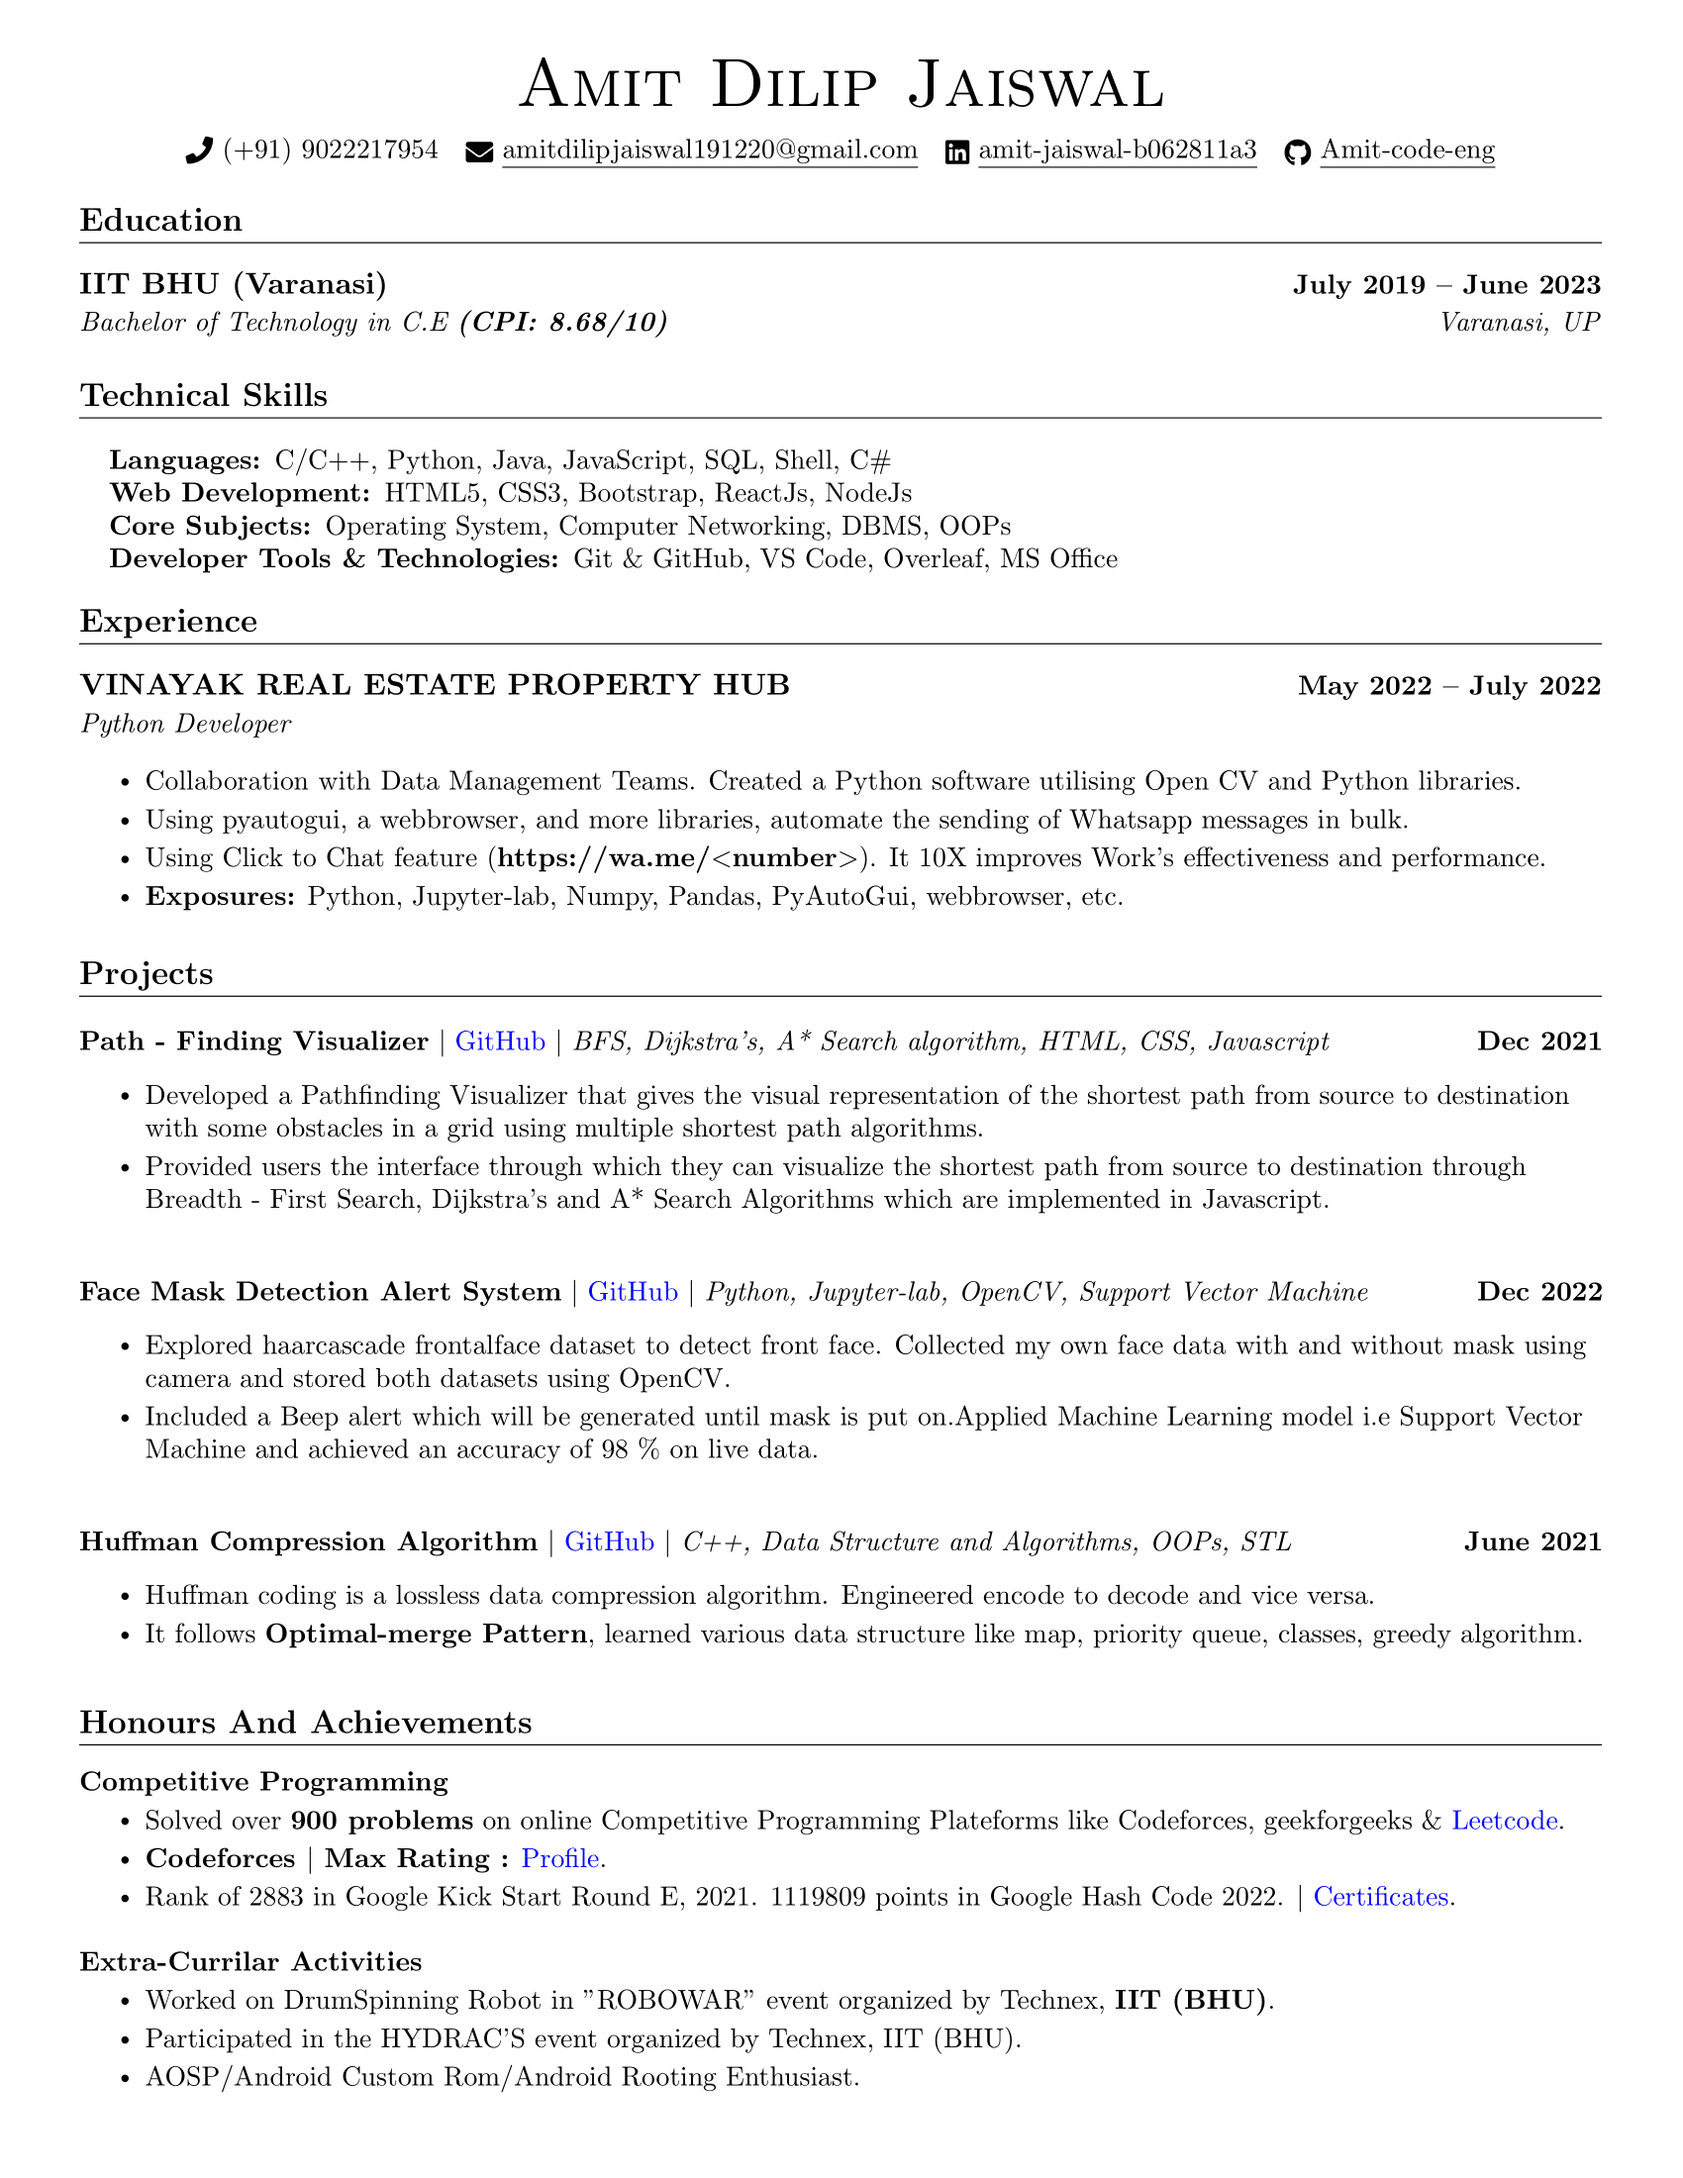
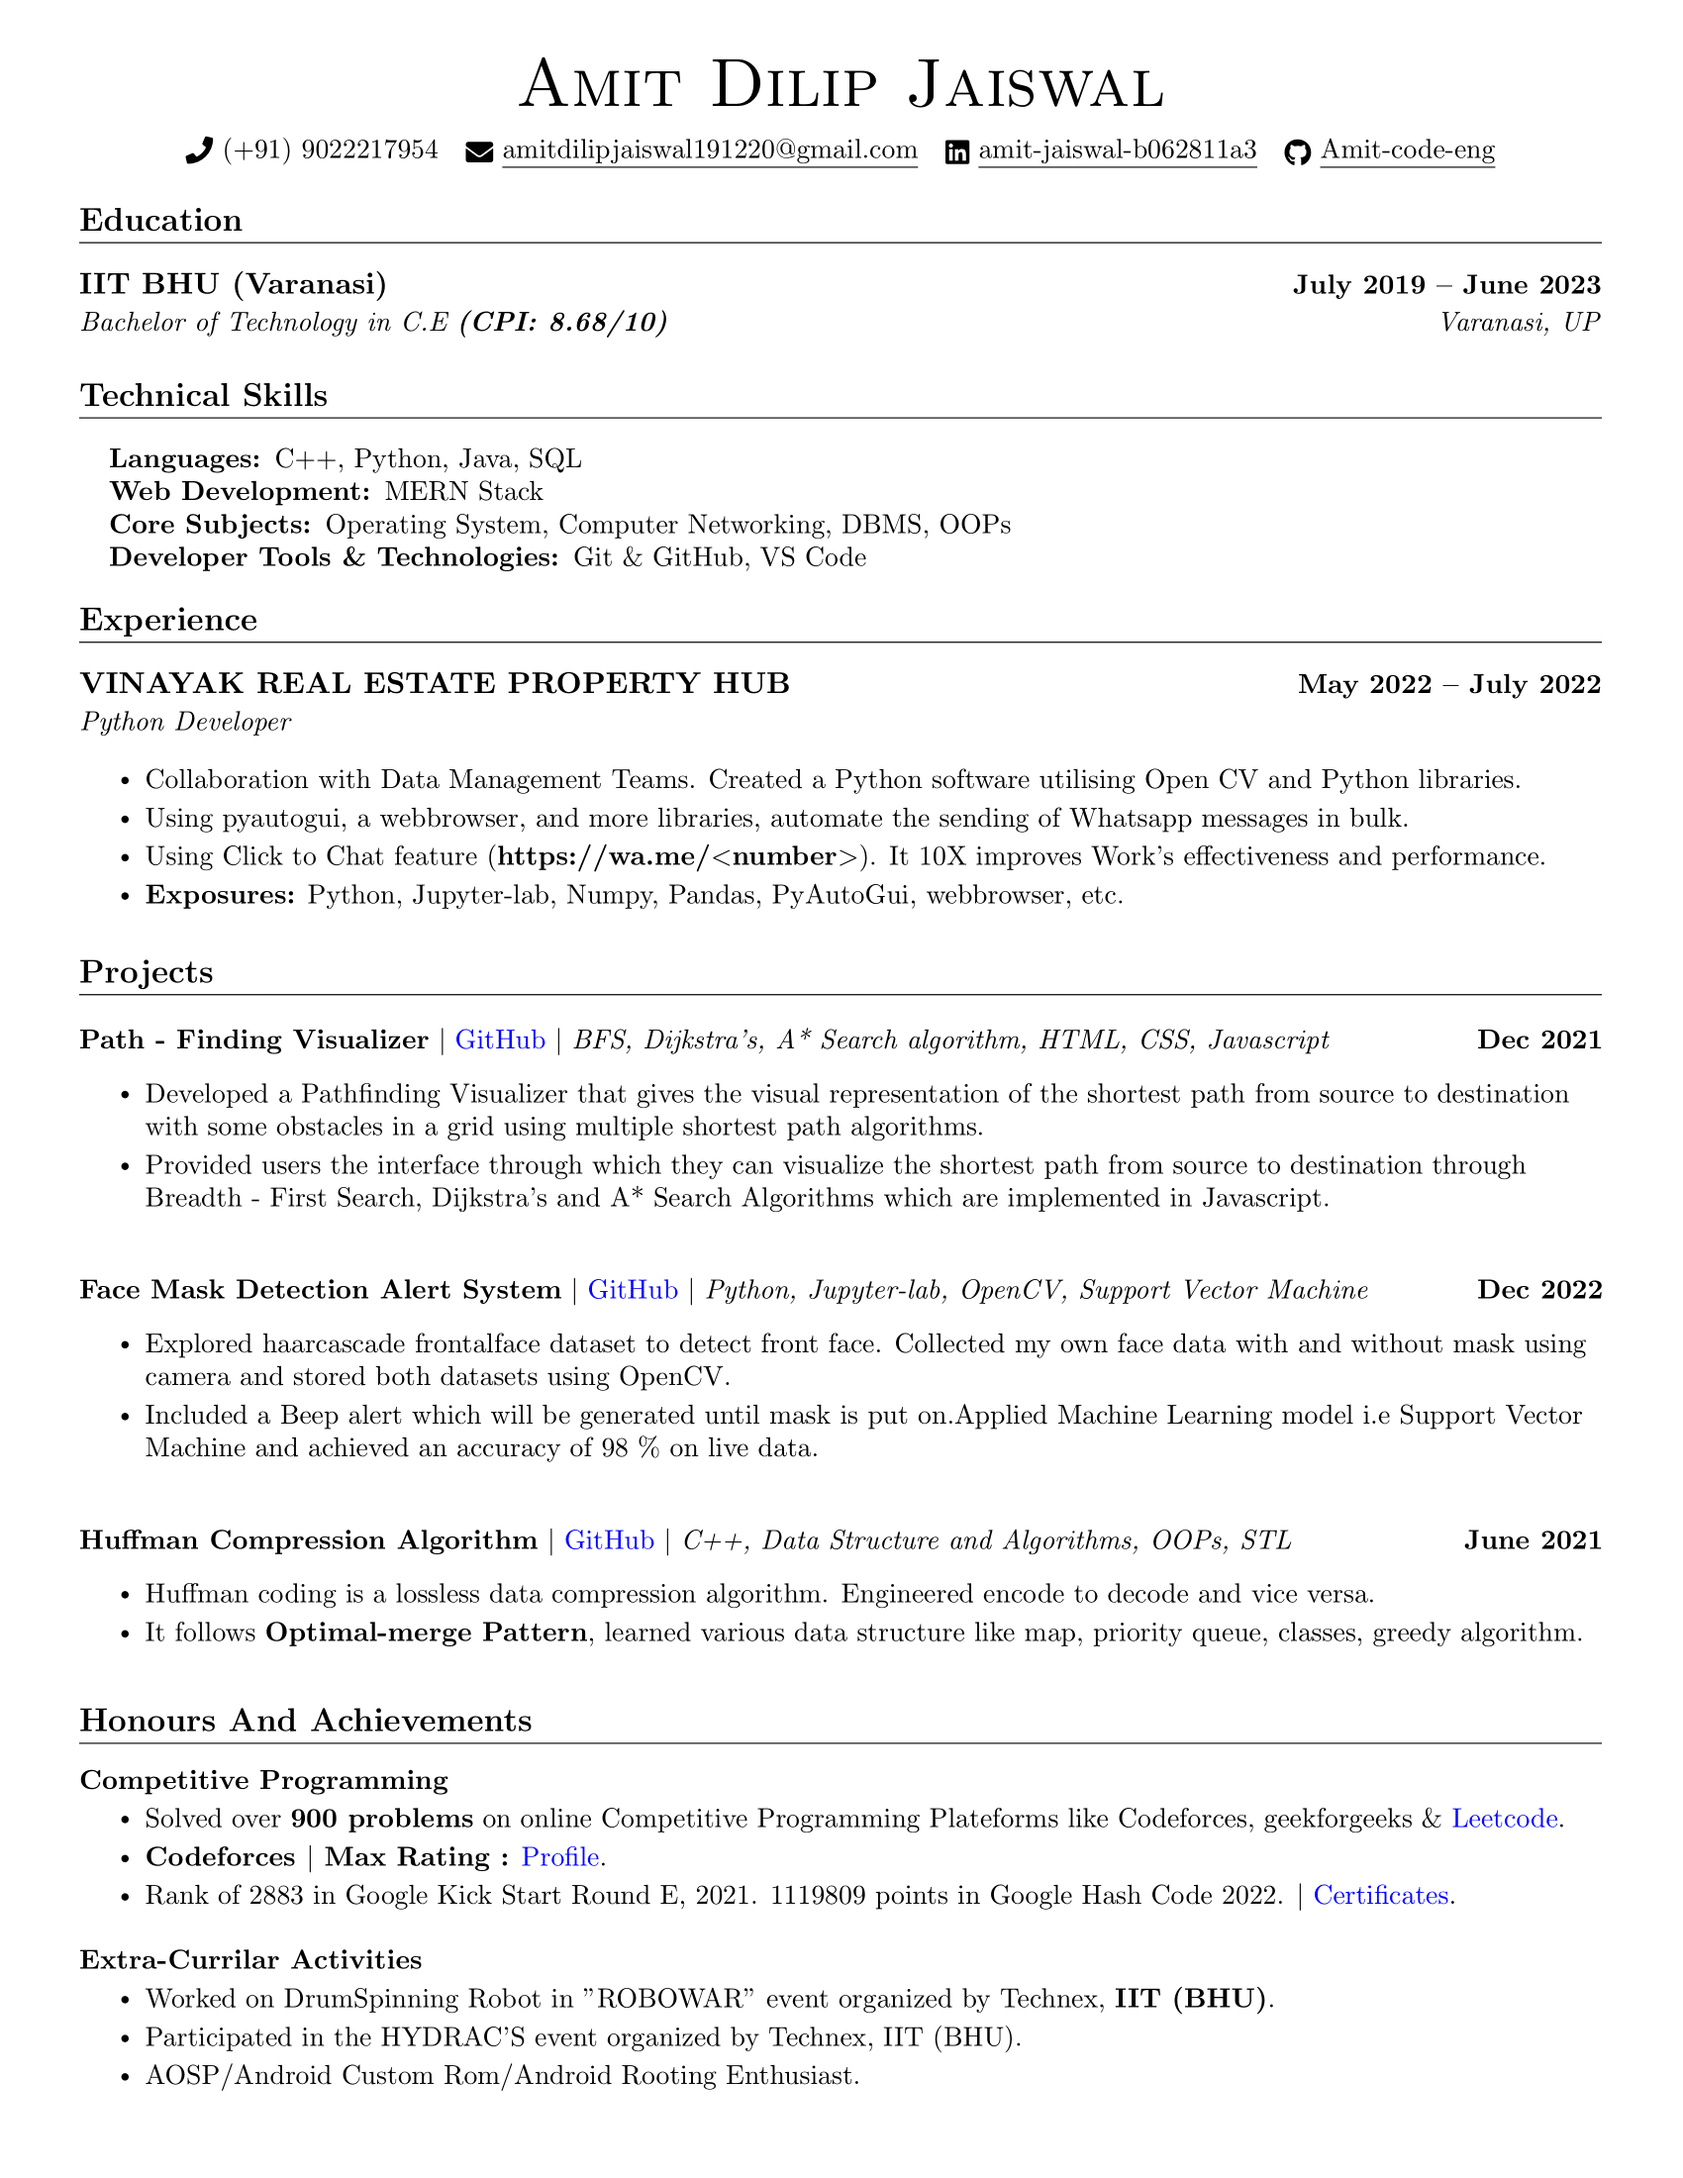
update

diff --git a/SDE_Resume.tex b/SDE_Resume.tex
@@ -142,10 +142,10 @@
 \vspace{5pt}
  \begin{itemize}[leftmargin=0.15in, label={}]
     \small{\item{
-    \textbf{Languages: }{C/C++, Python, Java, JavaScript, SQL, Shell, C\#} \\
-    \textbf{Web Development: }{HTML5, CSS3, Bootstrap, ReactJs, NodeJs}\\
+    \textbf{Languages: }{C++, Python, Java, SQL} \\
+    \textbf{Web Development: }{MERN Stack}\\
      \textbf{Core Subjects: }{Operating System, Computer Networking, DBMS, OOPs} \\
-     \textbf{Developer Tools \& Technologies: }{Git \& GitHub, VS Code, Overleaf, MS Office} \\
+     \textbf{Developer Tools \& Technologies: }{Git \& GitHub, VS Code} \\
     }}
  \end{itemize}
  \vspace{-15pt}
